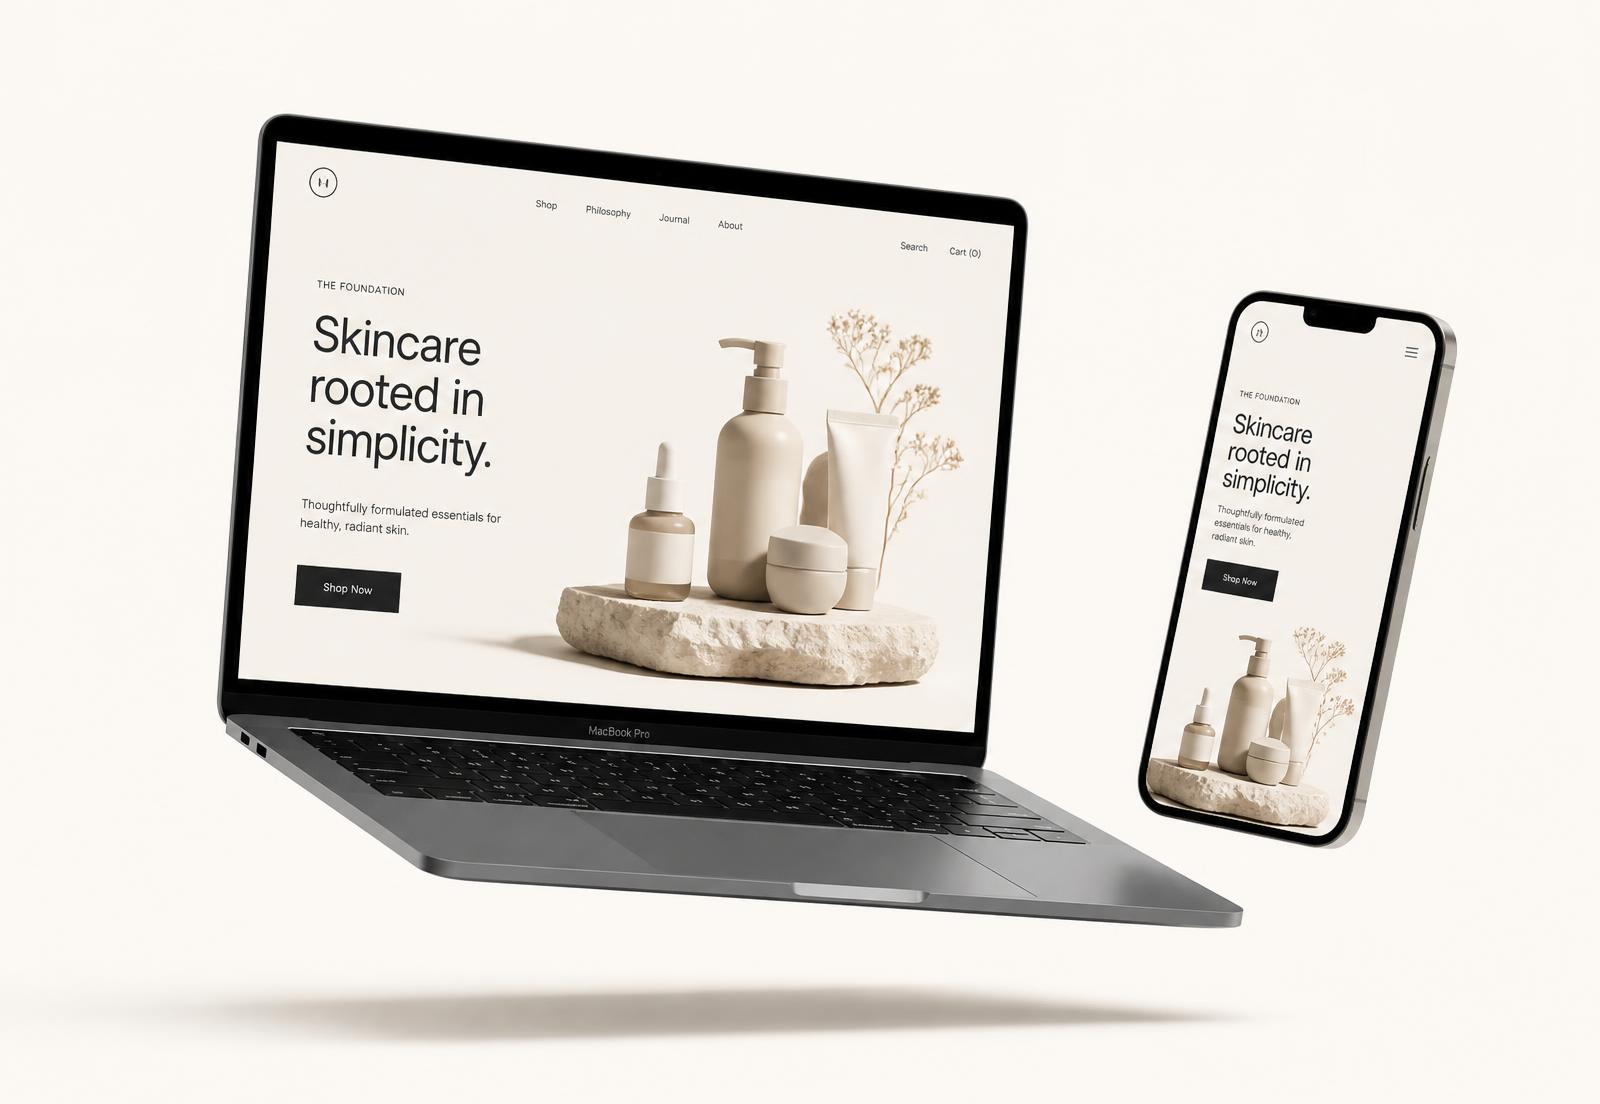
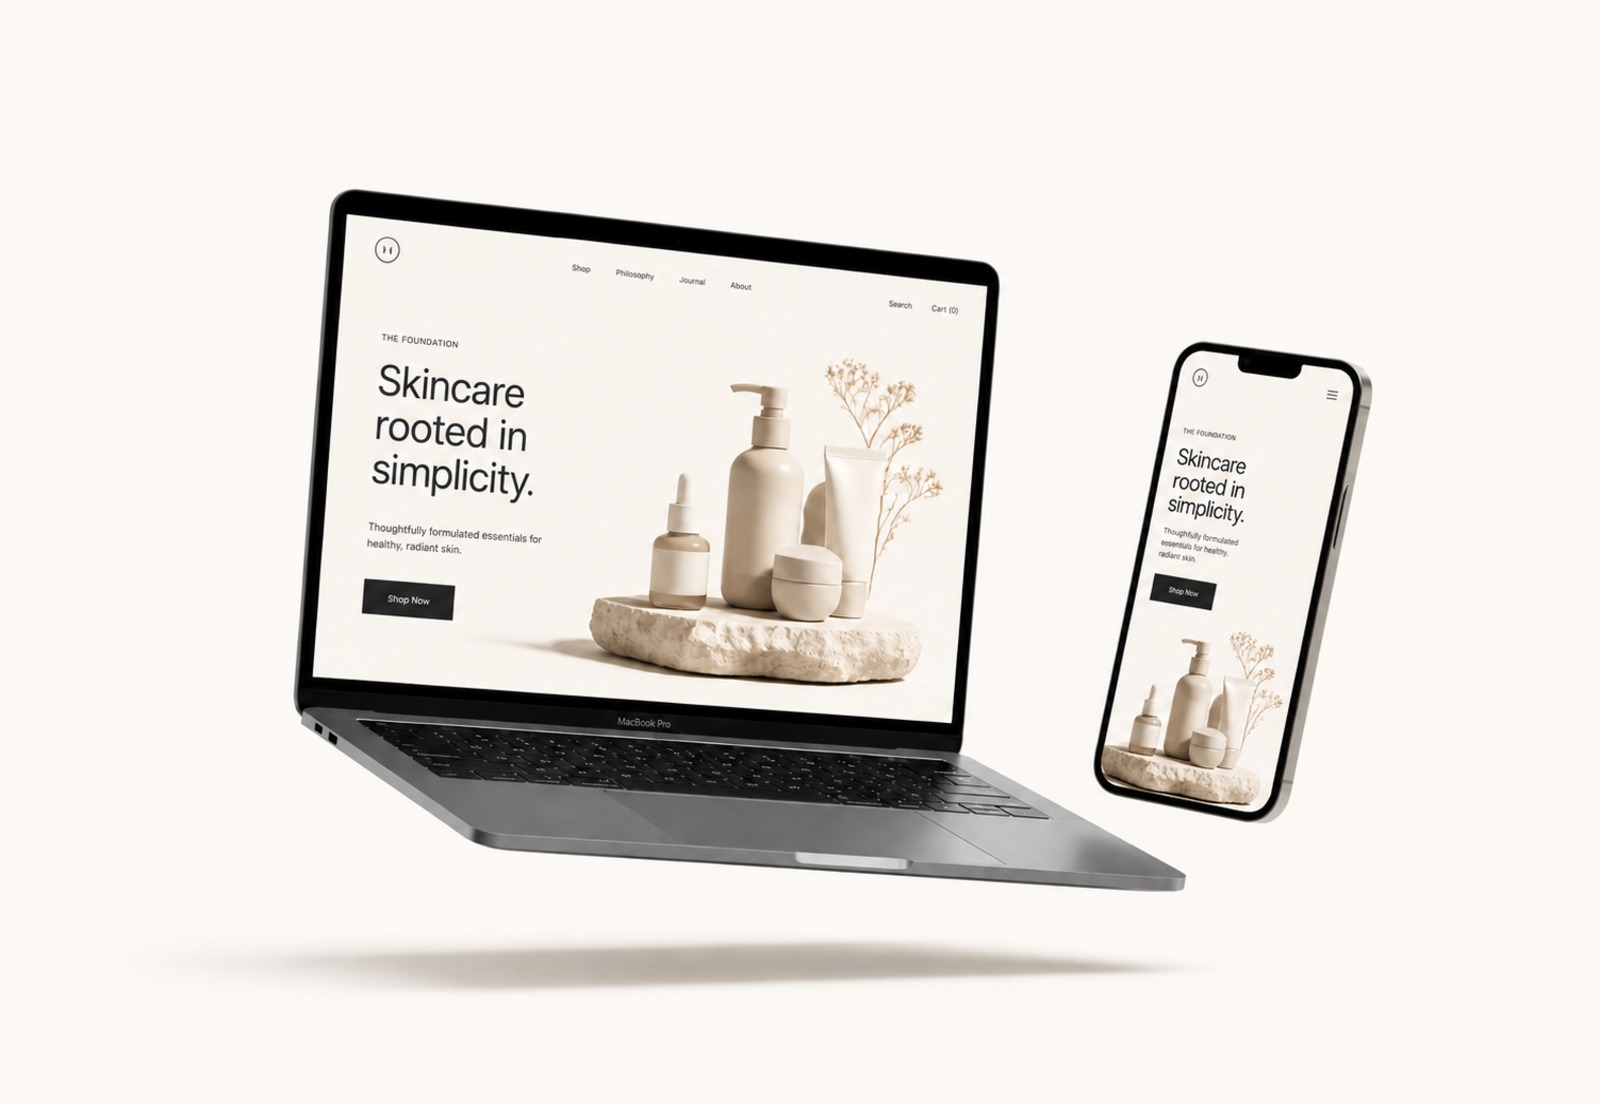
Integrate homepage device image

Changed region(s): [[0.125, 0.0924, 0.9375, 0.9547]]

diff --git a/assets/styles.css b/assets/styles.css
@@ -213,3 +213,7 @@ body{
   font-family:var(--sans);
   font-optical-sizing:auto;
 }
+
+/* Keep the homepage device artwork visually integrated into the page. */
+.device-shot{margin:0;border:0;border-radius:0;overflow:visible;background:transparent;box-shadow:none;backdrop-filter:none;-webkit-backdrop-filter:none;transform:none}
+.device-shot img{display:block;width:100%;height:auto;border:0;border-radius:0;background:transparent;box-shadow:none}
